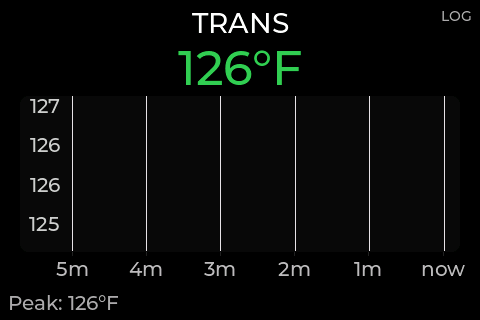
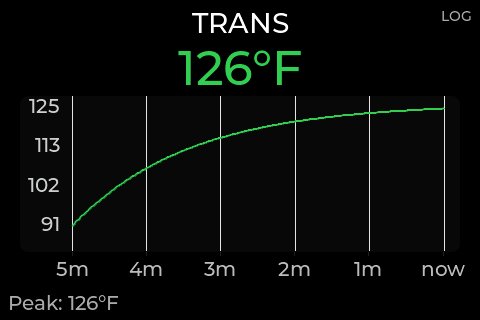
docs: focus render now shows a populated trend graph; clock parts ship with the board
The focus screenshot was rendered with an empty history ring, so its trend
graph pane was blank — it now seeds a 5-minute warm-up curve and shows trans
temp climbing 91->126F with real axis values.

diff --git a/README.md b/README.md
@@ -18,7 +18,7 @@ that generic scan tools do not expose.
 | **Input** | Arduino **Modulino** rotary encoder (I²C) — rotate to move, press to zoom, long-press for settings |
 | **Encoder cable** | **SparkFun Qwiic-to-Grove adapter cable, 100 mm** (`B082MM52ZR`) — the board exposes a Grove/Crowtail I²C port, the Modulino uses Qwiic; this bridges them |
 | **Storage** | **microSD** card (FAT32) — 1 Hz CSV drive logs |
-| **Coin cell** | Backs up the CrowPanel's on-board **PCF8563** real-time clock (I²C 0x51) so the time survives power-down — timestamps the SD logs and drives automatic day/night theming |
+| **Clock** | On-board **PCF8563** real-time clock (I²C 0x51) with its coin cell — both ship with the CrowPanel. Timestamps the SD logs and drives automatic day/night theming |
 | **OBD adapter** | **Vgate vLinker MS** in BLE mode (classic-CAN ELM327) — see tested adapters below |
 | **Power** | Truck USB (switched 5 V) → board USB-C |
 | **Case** | 3D printed — STLs in [`case/`](case/) — plus **8 × M3 heat-set threaded inserts** (4 mm long, 5 mm OD) and **8 × M3 × 10 mm screws** |